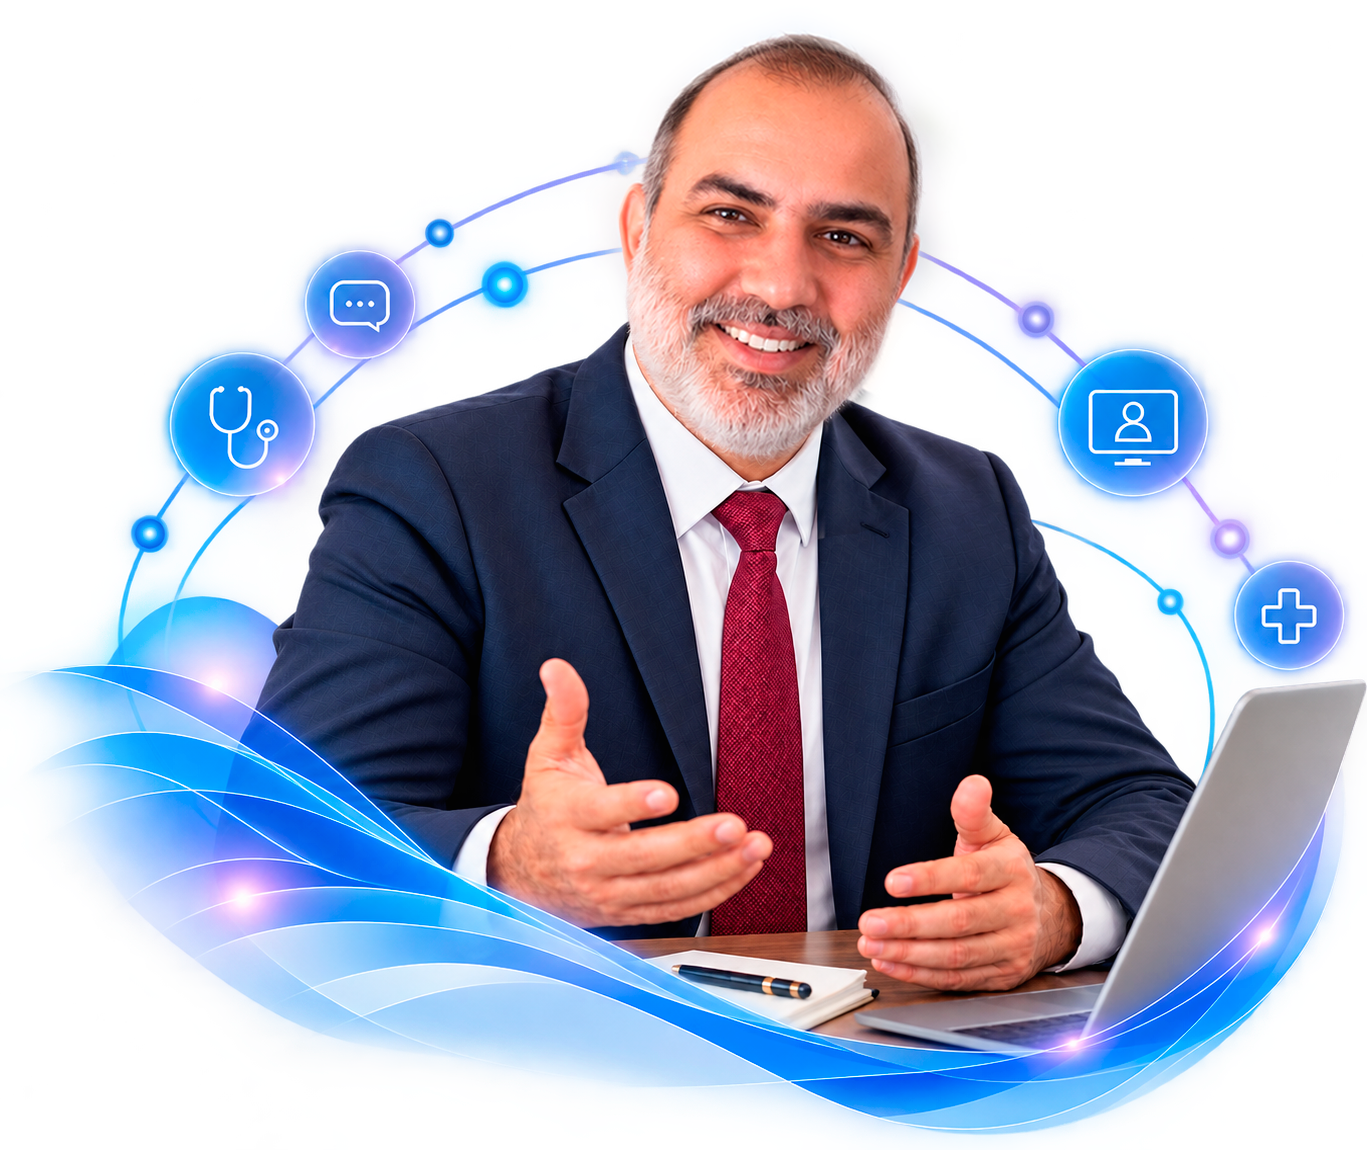
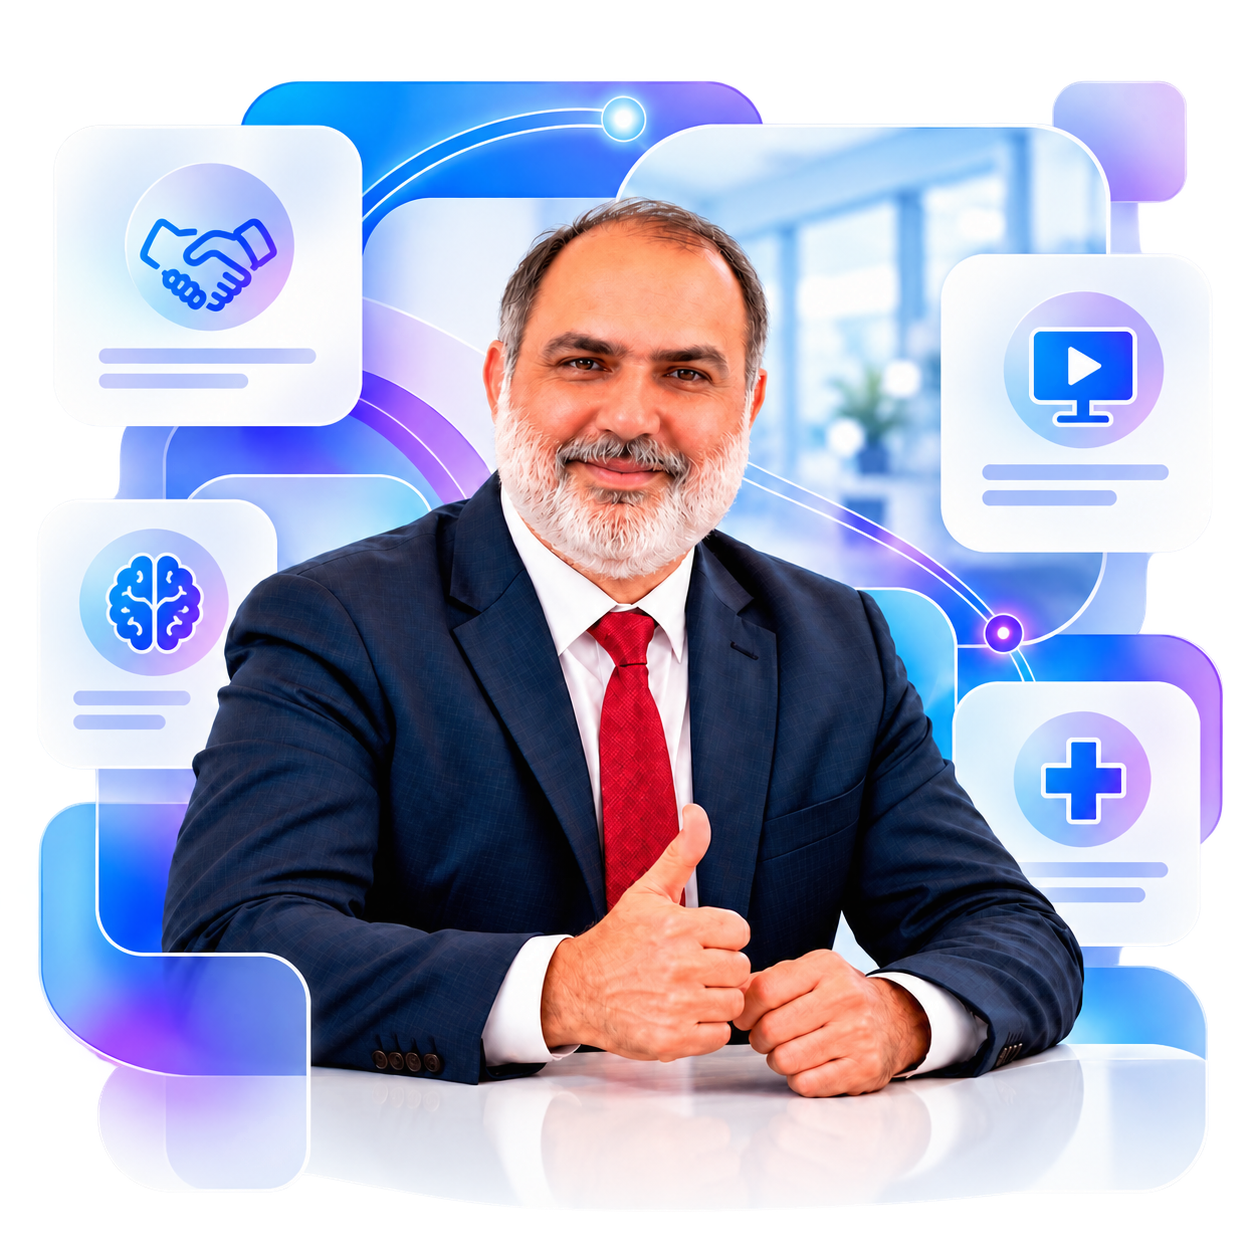
Update Experiência first image

diff --git a/experiencia/index.html b/experiencia/index.html
@@ -2511,7 +2511,7 @@ footer{
 <div class="wrap">
 <div class="heroStage reveal">
 <div class="heroFigure">
-<img alt="Marco Polese na Experiência Estratégica PromoVie" src="/experiencia/marco-primeira-foto-transparente.avif" loading="eager" decoding="async" fetchpriority="high"/>
+<img alt="Marco Polese na Experiência Estratégica PromoVie" src="/experiencia/marco-primeira-foto-transparente.png" loading="eager" decoding="async" fetchpriority="high"/>
 </div>
 <div class="heroIntro">
 <span class="kicker">Experiência Estratégica PromoVie</span>
